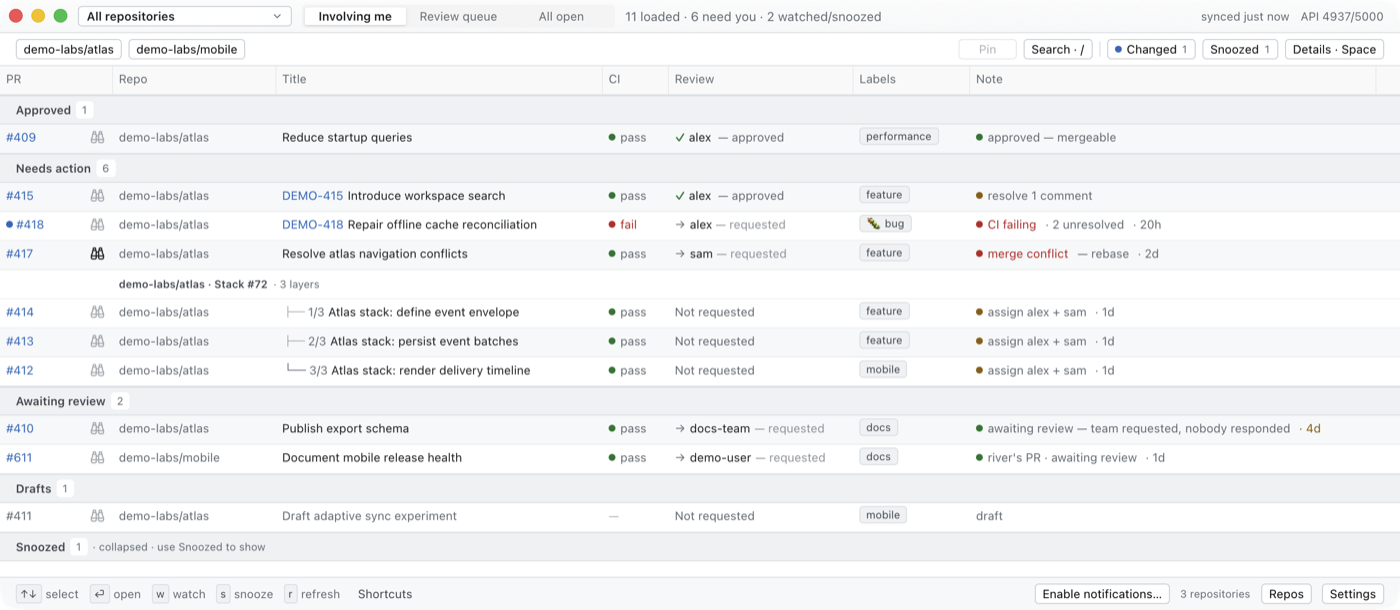
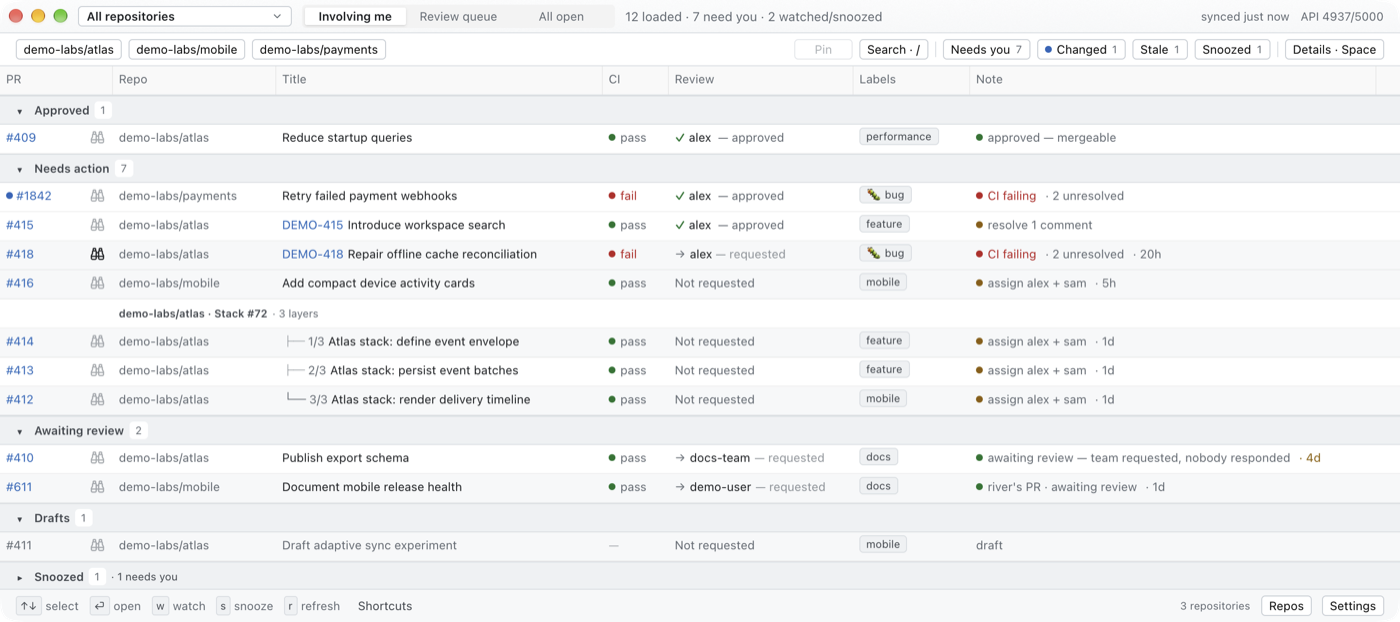
docs(readme): re-capture the board with the payments example
The image shows #1842 opening Needs action, the alt text says so, and the
opening says "unresolved comments", the word the app's Notes use.

diff --git a/README.md b/README.md
@@ -7,7 +7,7 @@
 # PR Marmot
 
 **40 open pull requests. Which one needs you?** Thought they were all green? One
-is approved but blocked by failing CI and two unresolved threads. PR Marmot is a
+is approved but blocked by failing CI and two unresolved comments. PR Marmot is a
 desktop dashboard for GitHub pull requests, for macOS and Linux: the open ones
 that involve you, across your repositories, with a plain-language **Note** on
 each saying where it stands, kept there until that changes. You act on GitHub;
@@ -20,7 +20,7 @@ Your GitHub token stays on your machine (in the keychain on macOS), with no PR
 Marmot account, no server and no telemetry. The app talks only to GitHub, and
 every line of it is here to read.
 
-![The PR Marmot board: open pull requests from two repositories grouped into Approved, Needs action, Awaiting review and Drafts, each with a Note such as "CI failing", "merge conflict — rebase" or "assign alex + sam"](assets/screenshots/board.png)
+![PR Marmot's board: the Approved section, then Needs action opening with #1842, approved but blocked by failing CI and two unresolved comments; each pull request has a Note such as "CI failing", "merge conflict — rebase" or "assign alex + sam"](assets/screenshots/board.png)
 
 *Involving me, across all repositories. Every repository, person and pull
 request shown is fictional.*
